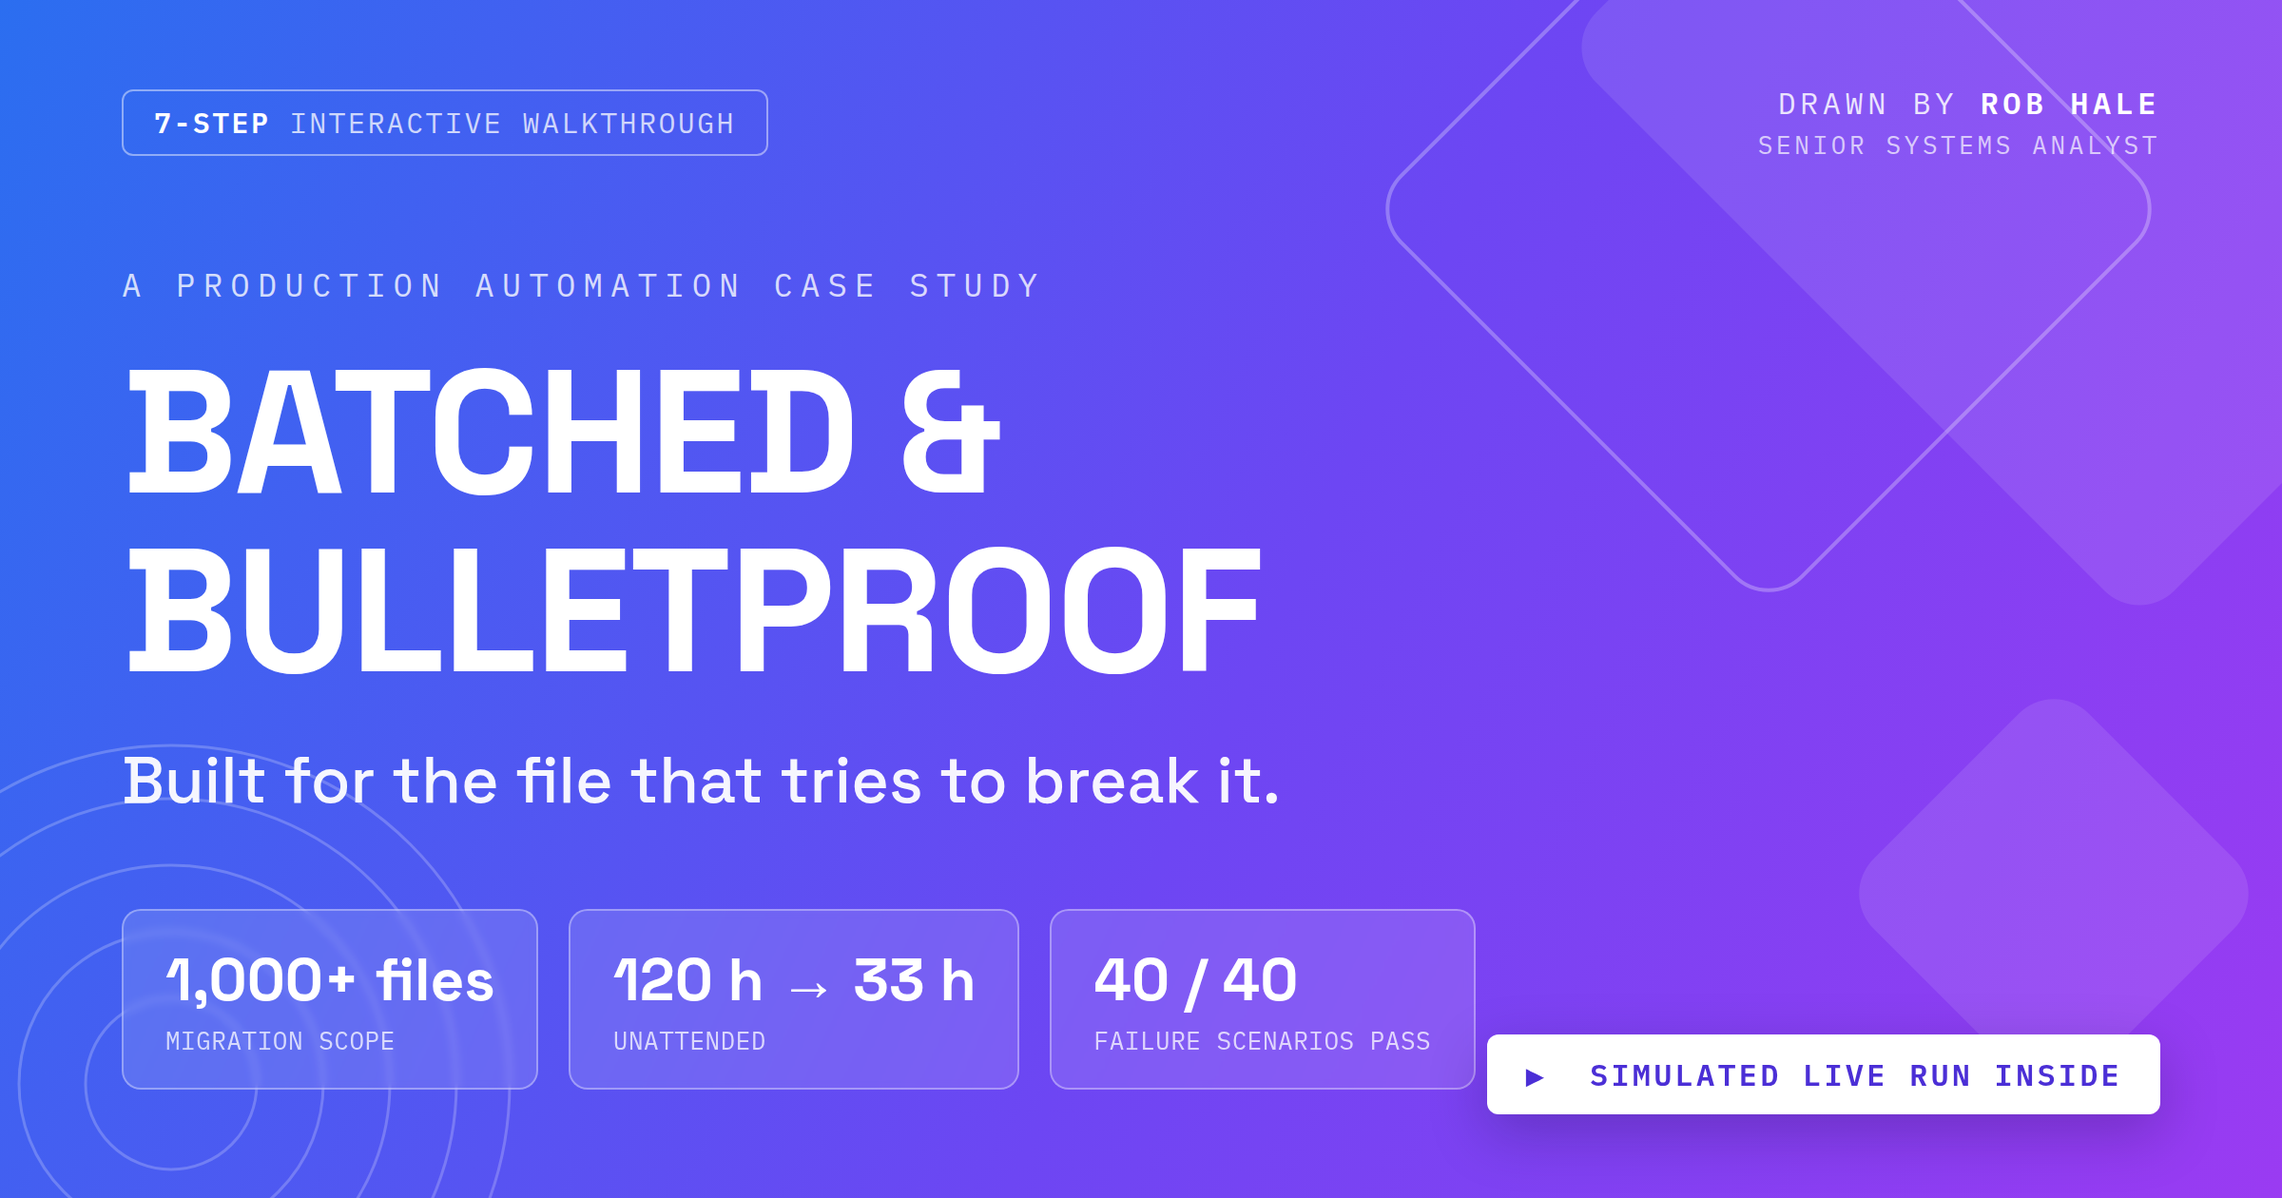
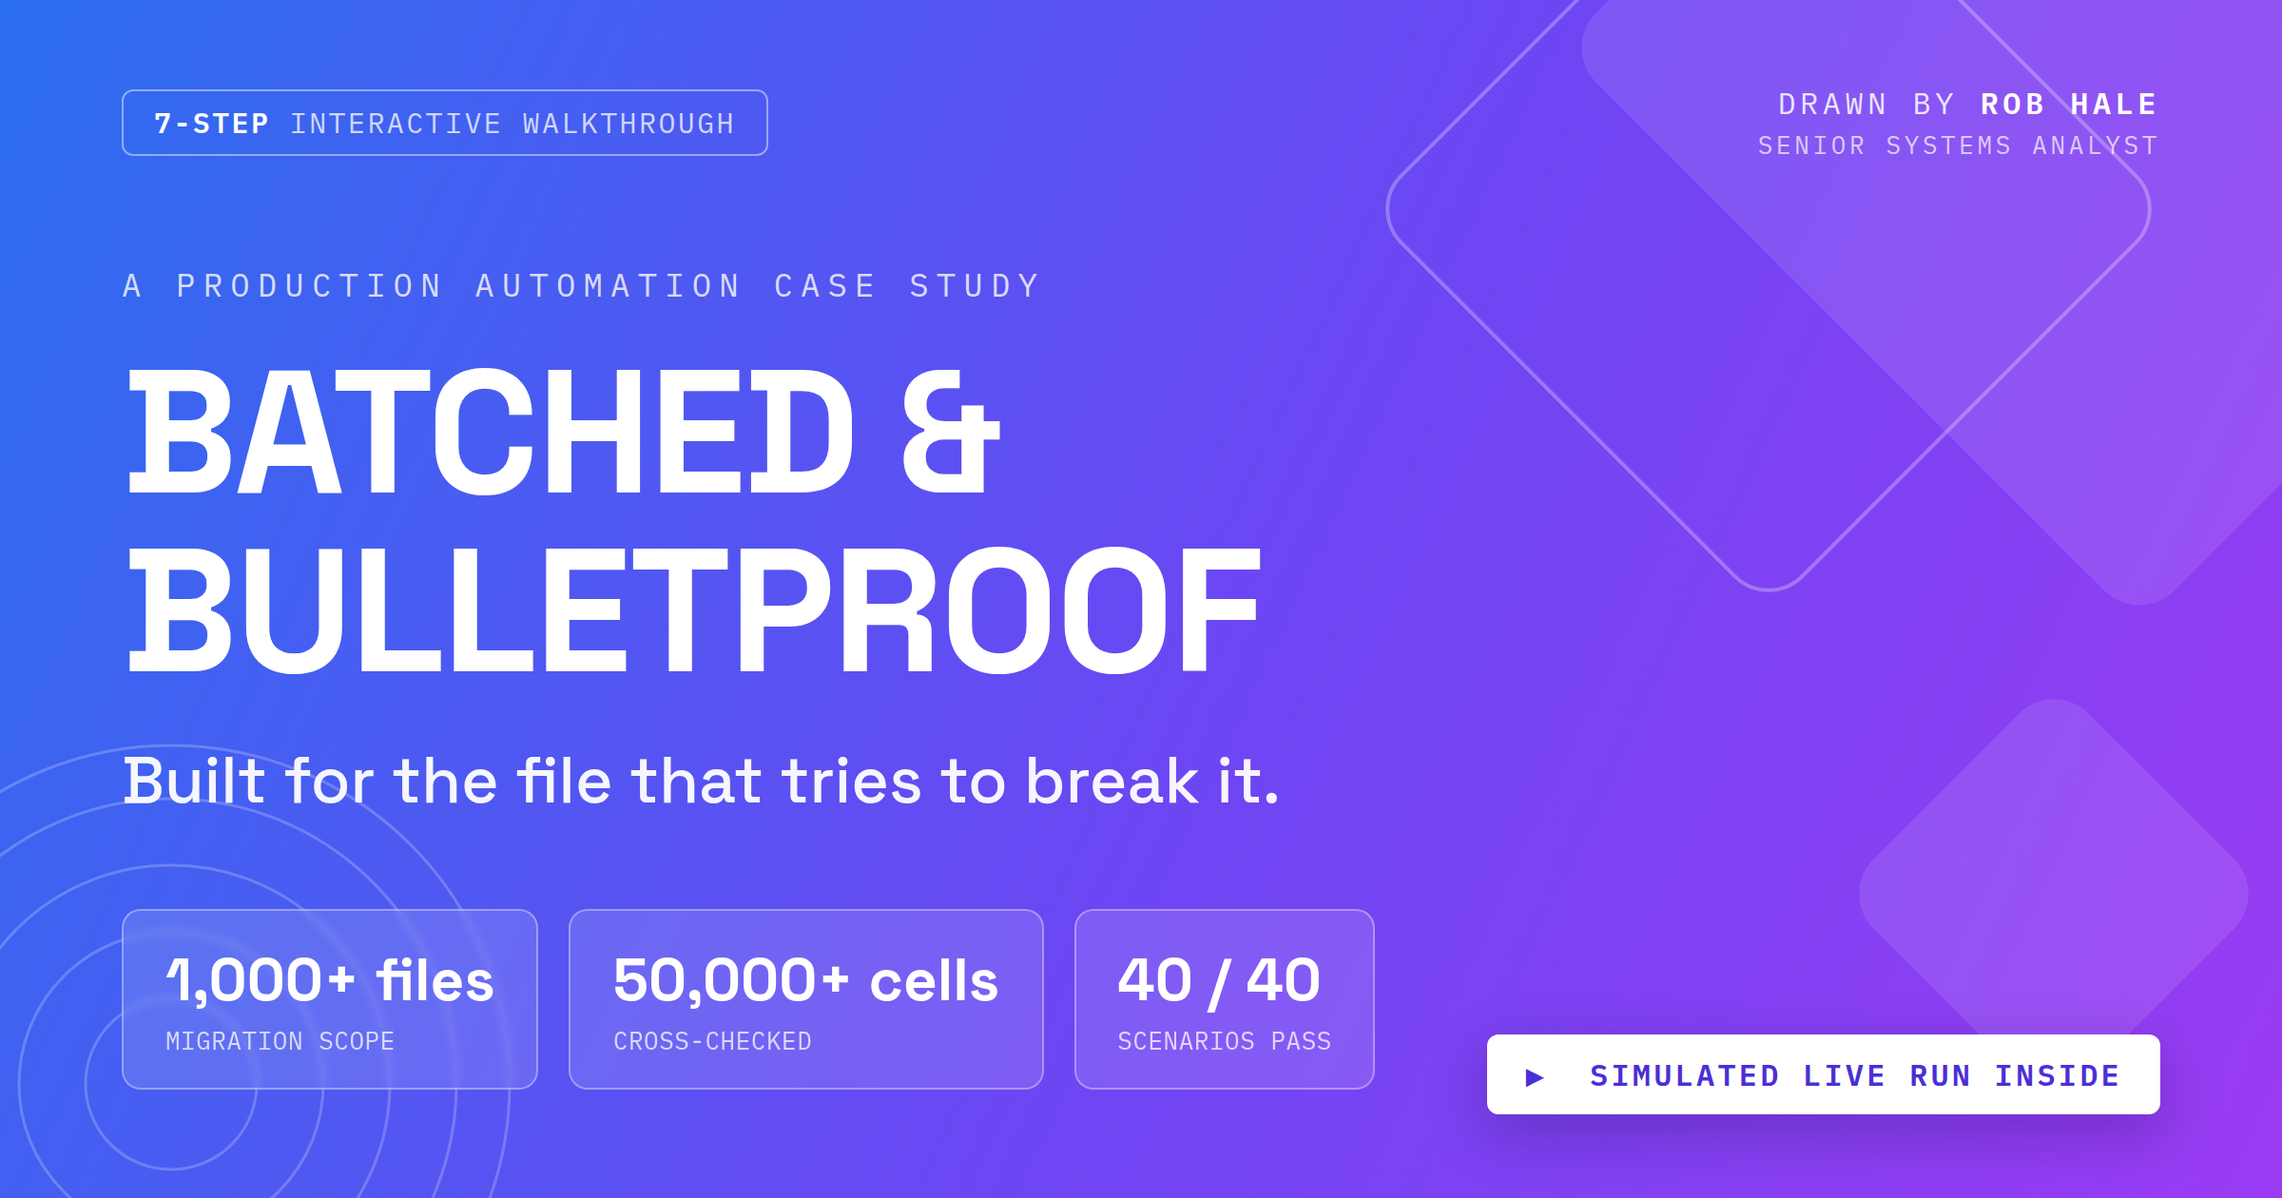
Reframe around verification and correctness (remove speed framing); update preview image

Changed region(s): [[0.4688, 0.7738, 0.625, 0.8976], [0.25, 0.7738, 0.4375, 0.8976]]

diff --git a/index.html b/index.html
@@ -269,6 +269,13 @@ main .step.active{display:block;animation:stepin .28s ease}
 .navbtn{font-family:var(--mono);font-size:12px;letter-spacing:.05em;color:var(--ink2);background:#fff;border:1px solid var(--line2);border-radius:8px;padding:11px 18px;cursor:pointer}
 .navbtn.next{font-family:var(--disp);font-weight:700;letter-spacing:.03em;color:#fff;background:var(--grad);border:none;font-size:14px;padding:12px 22px}
 
+/* ---------- numbers grid ---------- */
+.numgrid{display:grid;grid-template-columns:repeat(3,1fr);gap:12px;margin:6px 0 8px}
+.numtile{border:1px solid var(--line);background:var(--card);border-radius:10px;padding:16px 18px;box-shadow:var(--shadow);position:relative;overflow:hidden}
+.numtile::before{content:"";position:absolute;top:0;left:0;bottom:0;width:3px;background:var(--grad)}
+.numtile .numn{font-family:var(--disp);font-size:clamp(22px,3vw,30px);font-weight:700;color:var(--ink);white-space:nowrap}
+.numtile .numl{font-size:12.5px;color:var(--mut);margin-top:5px;line-height:1.45}
+
 /* ---------- responsive ---------- */
 @media (max-width:920px){
   .appbody{grid-template-columns:1fr}
@@ -279,6 +286,7 @@ main .step.active{display:block;animation:stepin .28s ease}
 }
 @media (max-width:640px){
   .statrow{grid-template-columns:1fr 1fr}
+  .numgrid{grid-template-columns:1fr 1fr}
   .guards{grid-template-columns:1fr}
   .hide-s{display:none}
   .chainrow{flex-direction:column}
@@ -329,8 +337,8 @@ main .step.active{display:block;animation:stepin .28s ease}
     This page is the working demonstration: <b>a migration-scale engine that shows its work.</b></p>
     <div class="statrow">
       <div class="stat"><div class="n">1,000+</div><div class="l">project files in migration scope</div></div>
-      <div class="stat"><div class="n"><span class="nw">7–10 <small>min</small></span> → <span class="nw">30–90 <small>sec</small></span></div><div class="l">per file — by hand vs. automated</div></div>
-      <div class="stat"><div class="n"><span class="nw">120+ <small>hrs</small></span> → <span class="nw">~33 <small>hrs</small></span></div><div class="l">person-hours → unattended machine time</div></div>
+      <div class="stat"><div class="n">165</div><div class="l">custom fields captured per file — 130 local, 35 enterprise</div></div>
+      <div class="stat"><div class="n">50,000<small>+</small></div><div class="l">cells cross-checked before the first file is trusted</div></div>
       <div class="stat"><div class="n">40 / 40</div><div class="l">offline failure scenarios passing before any release</div></div>
     </div>
     <div class="notional"><span class="dot">◆</span>
@@ -360,25 +368,25 @@ main .step.active{display:block;animation:stepin .28s ease}
     <p class="sub">Before schedules can migrate to a new planning platform, every project file must be fully documented — every local and enterprise custom field, every formula, every pick-list, every task value.</p>
     <div class="prose">
       <p>Done by hand, each Microsoft Project file means opening it in the right server environment, walking its
-      local and enterprise custom fields, exporting several outputs, and checking them — <b>7 to 10 minutes of careful clicking per file</b>.
-      Multiply by a thousand-plus files and it's weeks of person-time spread across program teams, doing the exact
-      kind of repetitive work where tired people make quiet mistakes: a missed column, a wrong environment,
+      local and enterprise custom fields, exporting several outputs, and checking every value by eye. Across a
+      thousand-plus files that becomes a <b>punishing amount of repetitive manual work</b> spread across program
+      teams — the exact kind of work where tired people make quiet mistakes: a missed column, a wrong environment,
       a value pasted one row off. Nobody notices at file 400. The migration inherits the error.</p>
     </div>
     <div class="mathstrip">
-      <div class="mathcard">one file, by hand<span class="big">7–10 min</span></div>
+      <div class="mathcard">files to document<span class="big">1,000+</span></div>
       <div class="mathop">×</div>
-      <div class="mathcard">files in scope<span class="big">1,000+</span></div>
+      <div class="mathcard">fields per file, every value read from source<span class="big">130 + 35</span></div>
       <div class="mathop">=</div>
-      <div class="mathcard bad">of error-prone clicking<span class="big">120+ hours</span></div>
+      <div class="mathcard bad">by hand, across program teams<span class="big">error-prone toil</span></div>
       <div class="mathop">→</div>
-      <div class="mathcard good">as an unattended batch<span class="big">~33 hours</span></div>
+      <div class="mathcard good">as one unattended, verified run<span class="big">documented right</span></div>
     </div>
     <div class="callout">
       <div class="mono">THE DESIGN LAW, SET ON DAY ONE</div>
-      <p><b>Data is never allowed to be wrong — only slower.</b> Every bulk-export mechanism in this tool must prove
-      itself against an independently built cell-by-cell export before it is trusted, and every failure must land
-      somewhere a person will see it. Speed is negotiable. Correctness and visibility are not.</p>
+      <p><b>Data is never allowed to be wrong, and no failure is ever allowed to be silent.</b> Every automated
+      capture must prove itself against an independently built check before it is trusted — and anything the tool
+      cannot verify, it refuses out loud rather than guessing. Correctness and visibility are non-negotiable.</p>
     </div>
   </div>
 </section>
@@ -415,11 +423,11 @@ main .step.active{display:block;animation:stepin .28s ease}
           <div class="optrow"><span class="cb"></span><span>Skip first-file safety check — trust bulk capture without the first-file comparison</span></div>
           <div class="runrow">
             <button class="runbtn" id="runbtn">▶ RUN BATCH</button>
-            <button class="ctlbtn" id="speedbtn" aria-pressed="false">2× FASTER</button>
+            <button class="ctlbtn" id="speedbtn" aria-pressed="false">2× REPLAY</button>
             <button class="ctlbtn" id="resetbtn">↺ RESET</button>
           </div>
           <div class="clockrow">
-            <span class="replaychip" id="replaychip">REPLAY SPEED 8×</span>
+            <span class="replaychip" id="replaychip">REPLAY 10×</span>
             <span>RUN CLOCK <b id="wallclock">0:00</b></span>
             <span>YOUR TIME <b id="repclock">0:00</b></span>
           </div>
@@ -454,9 +462,9 @@ main .step.active{display:block;animation:stepin .28s ease}
       <div class="vstep">
         <div class="vtag">STEP 1 · FIRST FILE OF EVERY BATCH — EXPORT IT TWICE</div>
         <div class="vpair">
-          <div class="vcard"><div class="vt">BULK CAPTURE · SECONDS PER FILE</div>
+          <div class="vcard"><div class="vt">BULK CAPTURE · THE WHOLE GRID AT ONCE</div>
             <p>Applies a saved table in Microsoft Project and captures the grid <b>column by column</b> through the clipboard — the one copy operation Project genuinely supports.</p></div>
-          <div class="vcard"><div class="vt">CELL-BY-CELL · MINUTES PER FILE</div>
+          <div class="vcard"><div class="vt">CELL-BY-CELL · EVERY VALUE INDEPENDENTLY</div>
             <p>Reads every value <b>one cell at a time</b> over the automation link — the plodding, proven baseline that has never been wrong.</p></div>
         </div>
       </div>
@@ -464,7 +472,7 @@ main .step.active{display:block;animation:stepin .28s ease}
       <div class="vstep">
         <div class="vtag">STEP 2 · COMPARE EVERY CELL</div>
         <div class="vcard vwide">
-          <p><b>Every cell of the first file, from both exports — not a sample.</b> On a typical file that is 50,000+ comparisons covering every local and enterprise field, so the two independent methods must agree perfectly before speed is allowed.</p></div>
+          <p><b>Every cell of the first file, from both exports — not a sample.</b> On a typical file that is 50,000+ comparisons covering every local and enterprise field, so the two independent methods must agree perfectly before the batch is trusted.</p></div>
       </div>
       <div class="vconn">THE VERDICT GATES THE WHOLE BATCH</div>
       <div class="vstep">
@@ -473,7 +481,7 @@ main .step.active{display:block;animation:stepin .28s ease}
           <div class="vcard pass"><div class="vt">PERFECT MATCH → BULK CAPTURE EARNS THE BATCH</div>
             <p>Every file after the first uses bulk capture, still guarded per file: row-count checks, selection-coverage checks, and spot checks re-read straight from the source.</p></div>
           <div class="vcard fall"><div class="vt">ANY MISMATCH → CELL-BY-CELL RUNS INSTEAD</div>
-            <p>The whole batch runs cell-by-cell instead and says so, by name, in the log. <b>Output can be slower — never wrong.</b></p></div>
+            <p>The whole batch runs cell-by-cell instead and says so, by name, in the log. <b>The result is verified either way — never guessed.</b></p></div>
         </div>
       </div>
     </div>
@@ -529,14 +537,14 @@ main .step.active{display:block;animation:stepin .28s ease}
       <div class="sbody">
         <p>Plan B was the obvious one: select the whole grid in Project, copy, read the clipboard. Instrumentation
         told the truth — after a full-grid copy, the clipboard holds <span class="mono">MPDB</span>, Project's
-        private format, and <b>no text at all</b>. Not slow, not flaky: structurally never going to work. Every
+        private format, and <b>no text at all</b>. Not a glitch, not fixable with a retry: structurally never going to work. Every
         bulk route Project appears to offer was tested and closed the same way — the export engine ignored
         requested formats and once quietly re-saved an entire project as an 8.8&nbsp;MB binary blob mid-diagnosis.</p>
         <p>The breakthrough came from a <b>hand test</b>, not from code: copying one <i>column</i> at a time posts
         real text. Project supports the copy everyone actually does by hand, and only that one. So the capture was
         rebuilt to walk the applied table column by column — reading each column's field name from the grid itself,
         verifying the selection covers every task before copying, retrying the occasional empty clipboard, and
-        detecting the end of the table explicitly. ~36 columns land in about 24 seconds.</p>
+        detecting the end of the table explicitly. All ~36 columns captured in a single clean pass.</p>
         <div class="lesson"><div class="mono">LESSON</div>
         <p>When automation fights the platform, stop and watch what a human does successfully — then automate
         <i>that</i>, guards and all.</p></div>
@@ -550,12 +558,12 @@ main .step.active{display:block;animation:stepin .28s ease}
         Then the local-fields table turned out to be <b>132 columns wide</b>. The walker stopped at 80 and the last
         52 columns exported blank — a classic silent truncation, the exact class of bug that poisons a migration.</p>
         <p>It never shipped wrong data. The first-file comparison found <b>19,954 mismatched cells</b>, refused the
-        bulk capture, and ran the whole batch cell-by-cell instead. Output correct; only speed lost. The
+        bulk capture, and ran the whole batch cell-by-cell instead. Output correct; the safety net did exactly its job. The
         fix made the failure honest as well as fixed: the cap is now an <i>explicit refusal with a named reason</i>,
         never a quiet stop — and a test scenario pins it that way forever.</p>
         <div class="lesson"><div class="mono">LESSON</div>
         <p>Design the net before you need it. The verification layer isn't overhead — it's the thing that turns
-        your own future mistakes into slowdowns instead of corruption.</p></div>
+        your own future mistakes into a caught, logged error instead of corruption.</p></div>
       </div>
     </details>
   </div>
@@ -600,37 +608,22 @@ main .step.active{display:block;animation:stepin .28s ease}
 <section id="numbers" class="step">
   <div class="wrap">
     <div class="snum">STEP 6 OF 7 · THE HONEST NUMBERS</div>
-    <h2>One file, three ways</h2>
-    <p class="sub">Measured on real program files across three server environments — including the number that's slower on purpose.</p>
-    <div class="cmp">
-      <div class="cmprow hand">
-        <div class="cmphead"><span class="who">By hand</span><span class="val">7–10 min / file</span></div>
-        <div class="cmpbar"><i></i></div>
-        <div class="cmpnote">Open, filter, export, check — repeated 1,000+ times by tired humans. Bar lengths are to scale.</div>
-      </div>
-      <div class="cmprow first">
-        <div class="cmphead"><span class="who">Automated — first file of each batch</span><span class="val">≈ 2–8 min, on purpose</span></div>
-        <div class="cmpbar"><i></i></div>
-        <div class="cmpnote">Runs every export twice and compares every cell — the price of trusting the next 999. Time scales with file size and server load.</div>
-      </div>
-      <div class="cmprow fast">
-        <div class="cmphead"><span class="who">Automated — every file after the first</span><span class="val">30–90 sec / file</span></div>
-        <div class="cmpbar"><i></i></div>
-        <div class="cmpnote">Bulk capture, still guarded per file. Real batches: 15–71 sec per file, zero errors.</div>
-      </div>
+    <h2>What it does, by the numbers</h2>
+    <p class="sub">Real figures from real program files — the scale it covers, and the checking it does before you trust a single value.</p>
+    <div class="numgrid">
+      <div class="numtile"><div class="numn">1,000+</div><div class="numl">Microsoft Project files in migration scope</div></div>
+      <div class="numtile"><div class="numn">165</div><div class="numl">custom fields captured per file — 130 local, 35 enterprise</div></div>
+      <div class="numtile"><div class="numn">50,000+</div><div class="numl">cells cross-checked by two independent methods on the first file of every batch</div></div>
+      <div class="numtile"><div class="numn">3</div><div class="numl">server environments run cold-start to clean exit, zero errors</div></div>
+      <div class="numtile"><div class="numn">40 / 40</div><div class="numl">offline failure scenarios that must end in a safe fallback before any release</div></div>
+      <div class="numtile"><div class="numn">19,954</div><div class="numl">wrong cells the safety net caught in testing — and refused — before they could ship</div></div>
     </div>
-    <table class="numtable">
-      <tr><th>WHAT</th><th>BEFORE</th><th>AFTER</th></tr>
-      <tr><td>Enterprise-field export (per file)</td><td>65–514 sec, one cell at a time</td><td class="mono">~24 sec, bulk capture</td></tr>
-      <tr><td>Local-field export, 130+ columns (per file)</td><td>68–114 sec, one cell at a time</td><td class="mono">~69 sec, bulk capture</td></tr>
-      <tr><td>Whole 1,000+ file job</td><td>120+ person-hours</td><td class="mono">~33 machine-hours</td></tr>
-    </table>
     <div class="honest">
       <div class="mono">WHAT THE NUMBERS DON'T HIDE</div>
-      <p>The cell-by-cell baseline swings 65→514 s across a workday — characterized by in-tool probes as server/machine
-      load, not the automation (the connection itself stays quick; the first read of each cell carries the cost). The fix wasn't to
-      argue with it: cell-by-cell now runs only as the once-per-batch verification, so the mystery costs minutes,
-      not hours. Honest numbers age better than impressive ones.</p>
+      <p>That last number is the real one. In testing, a saved table quietly grew from 80 to 132 columns and the
+      capture missed the overflow — 19,954 values would have shipped blank. The independent cross-check caught every
+      one, refused the batch, and named the fault in the log. The tool is built to make its own mistakes loud.
+      Honest numbers age better than impressive ones.</p>
     </div>
   </div>
 </section>
@@ -643,7 +636,7 @@ main .step.active{display:block;animation:stepin .28s ease}
     <div class="ddd">
       <div class="dcol"><h3><span class="mono">/ 01</span>Designed</h3>
         <ul>
-          <li><b>Safety laws before features:</b> never wrong (only slower) · no silent failures · never launch blind · sources stay read-only.</li>
+          <li><b>Safety laws before features:</b> correct output or a loud stop · no silent failures · never launch blind · sources stay read-only.</li>
           <li>Verification architecture: independent dual export + cell-by-cell comparison gating every batch.</li>
           <li>Failure design as a first-class feature — every refusal has a name and a fallback.</li>
         </ul></div>
@@ -797,7 +790,7 @@ function reset(){
   batchval.textContent='0 of 6';CF('—');
   wallclock.textContent='0:00';repclock.textContent='0:00';
   runbtn.disabled=false;runbtn.textContent='▶ RUN BATCH';
-  replaychip.textContent='REPLAY SPEED '+speed+'×';
+  replaychip.textContent='REPLAY '+speed+'×';
   S('Ready. Six files queued against Server Atlas Test.');
 }
 runbtn.addEventListener('click',function(){
@@ -810,7 +803,7 @@ speedbtn.addEventListener('click',function(){
   var fast=speedbtn.getAttribute('aria-pressed')==='true';
   speedbtn.setAttribute('aria-pressed',fast?'false':'true');
   speed=fast?10:20;
-  replaychip.textContent='REPLAY SPEED '+speed+'×';
+  replaychip.textContent='REPLAY '+speed+'×';
 });
 resetbtn.addEventListener('click',reset);
 reset();
